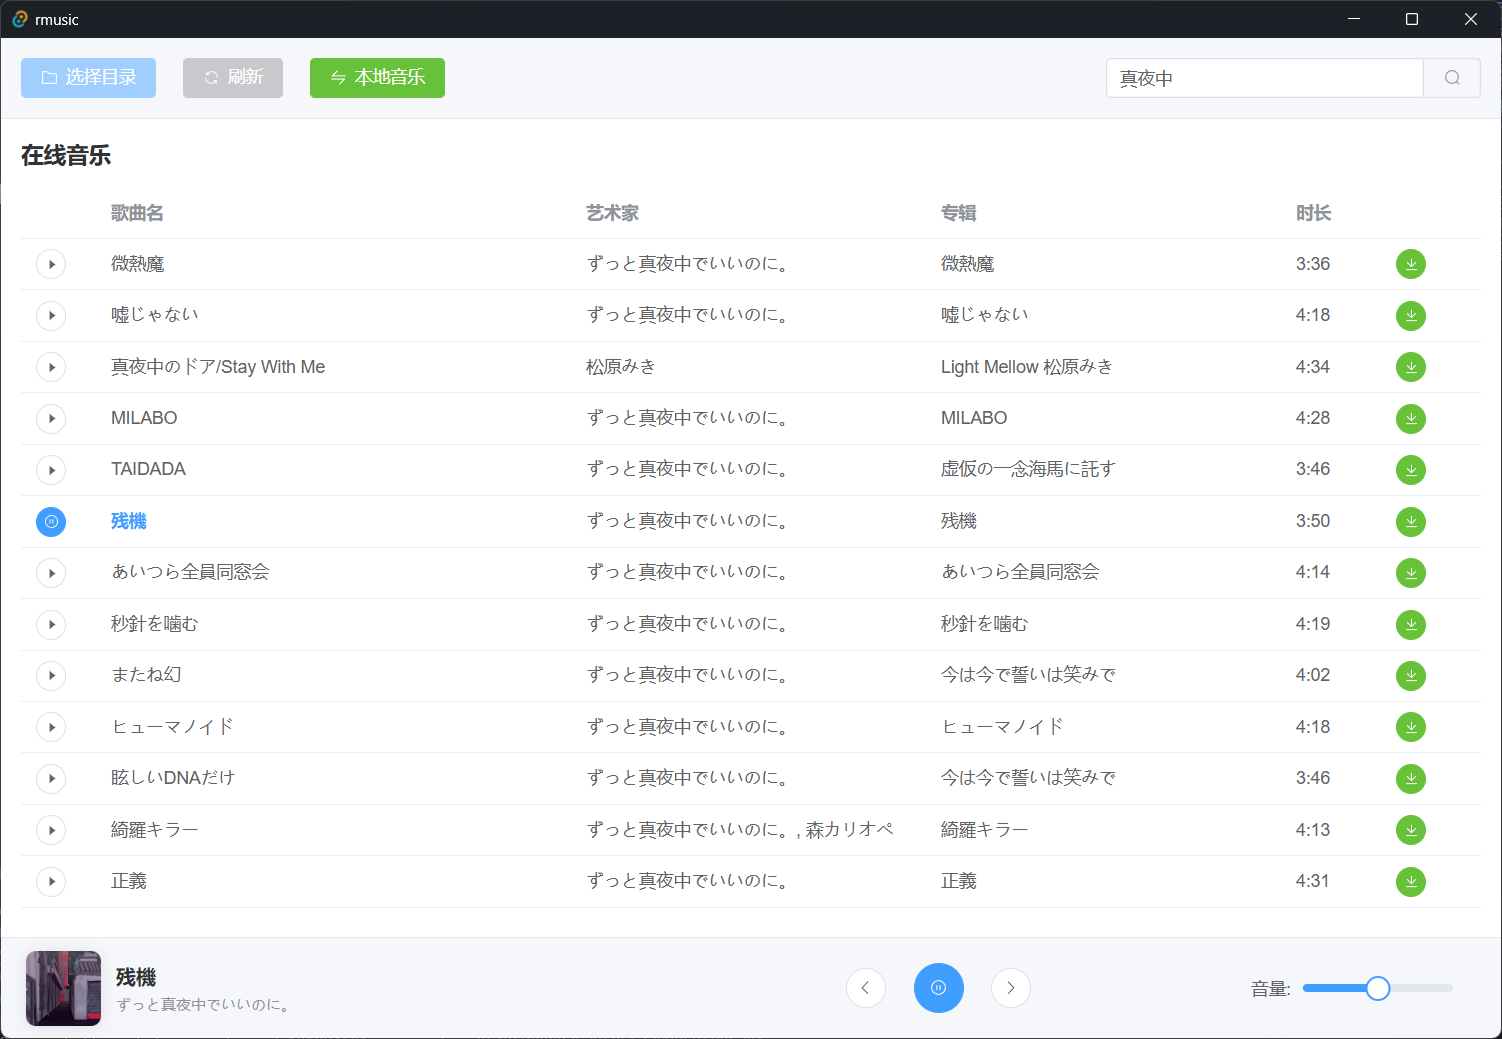
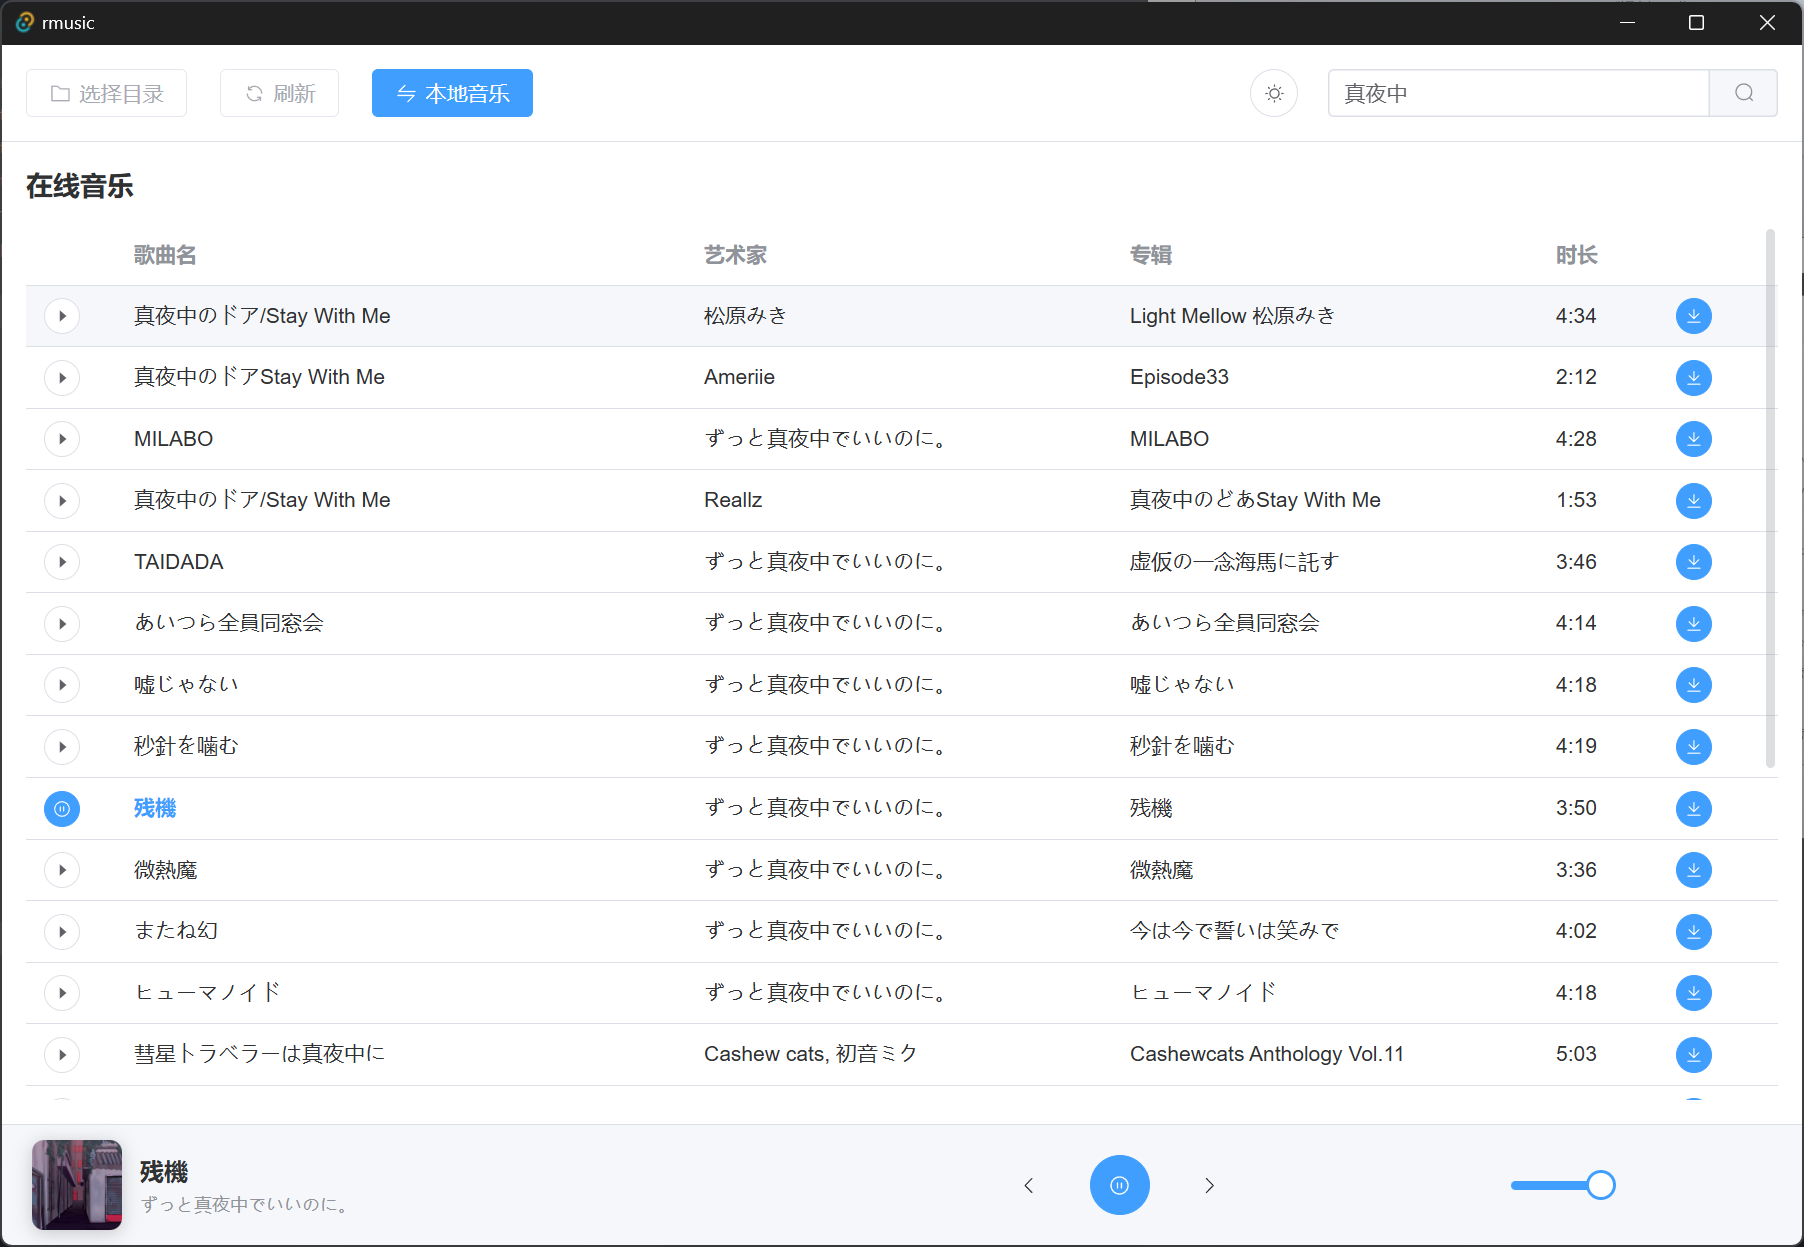
update README

diff --git a/README.md b/README.md
@@ -10,6 +10,10 @@ A modern cross-platform desktop music player built with Tauri and Vue.js.
 
 ![Screenshot](/screenshots/image-2.png)
 
+![Screenshot](/screenshots/image-3.png)
+
+![Screenshot](/screenshots/image-4.png)
+
 [中文文档](README_zh.md)
 
 p.s. If you need online music function, you need to start [KuGouMusicApi](https://github.com/MakcRe/KuGouMusicApi) at the same time.
@@ -49,6 +53,7 @@ Rmusic now supports online music streaming. You can:
 - **Volume Control**: Easily adjust playback volume
 - **Online Music**: Search and play online music through KuGou Music API
 - **Continuous Playback**: Maintains music playback state when switching between different pages
+- **Dark Mode**: Supports dark mode for better user experience in low-light environments
 
 ## Technology Stack
 

diff --git a/README_zh.md b/README_zh.md
@@ -10,6 +10,10 @@
 
 ![截图](/screenshots/image-2.png)
 
+![截图](/screenshots/image-3.png)
+
+![截图](/screenshots/image-4.png)
+
 [English Documentation](README.md)
 
 p.s. 如果需要在线听歌功能，需要同时启动[KuGouMusicApi](https://github.com/MakcRe/KuGouMusicApi)
@@ -49,6 +53,7 @@ Rmusic 现已支持在线音乐播放功能，您可以：
 - **音量控制**: 轻松调节播放音量
 - **在线音乐**: 通过酷狗音乐API搜索和播放在线音乐
 - **持续播放**: 在不同页面间切换时保持音乐播放状态
+- **深色模式**: 支持深色模式，适合低光环境下使用
 
 ## 技术栈
 
